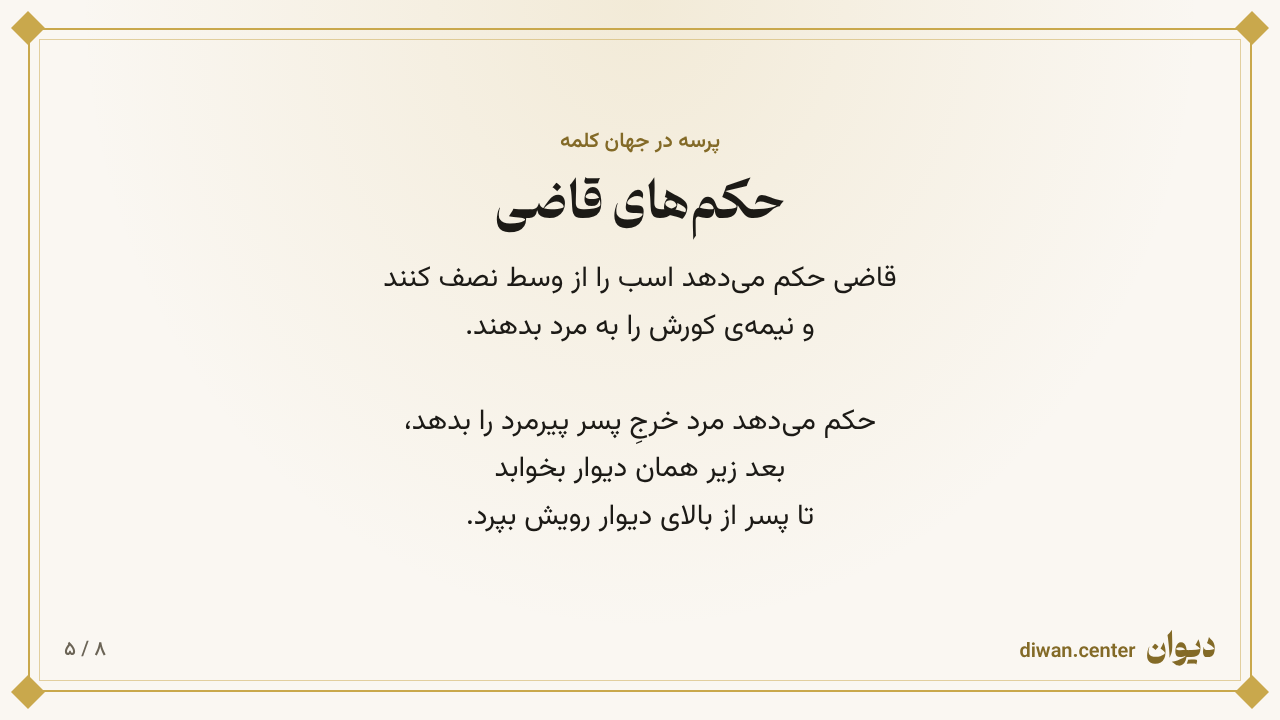
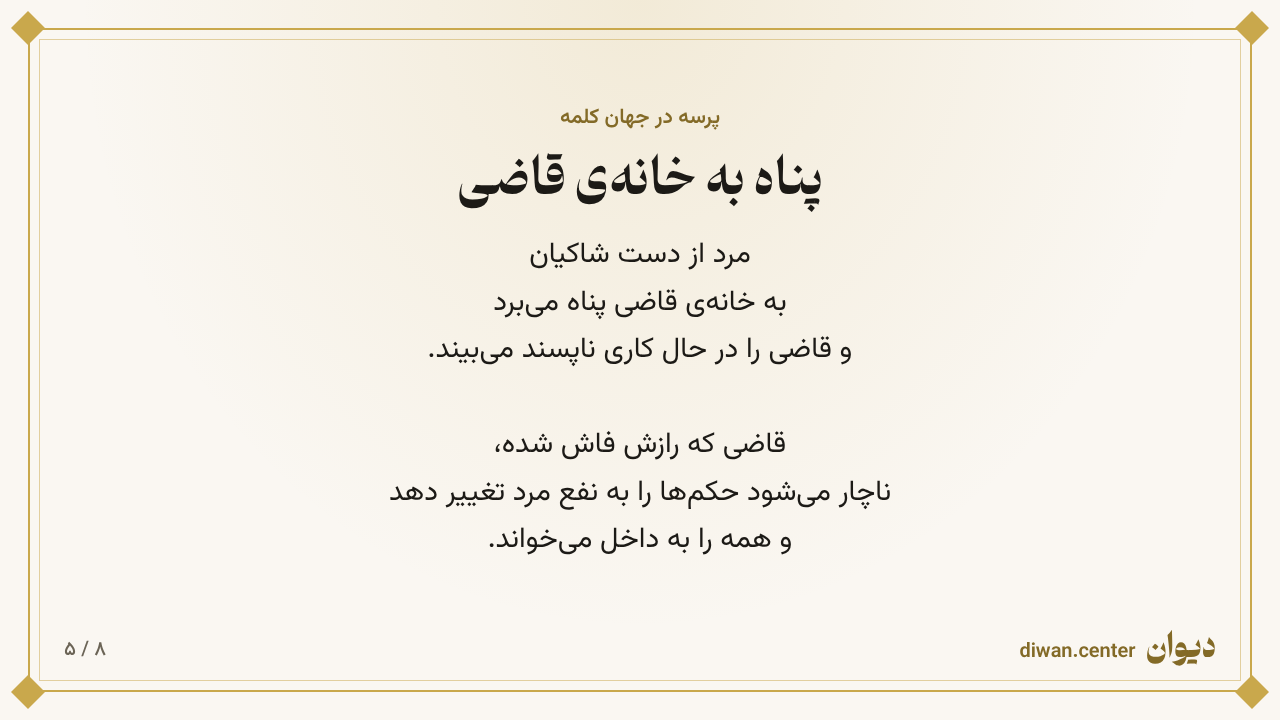
Proverb post14: judge-house version of the tale; schedule untouched
Claude-Session: https://claude.ai/code/session_01KbXFhZ5gVHvAJQxmARukFF

Changed region(s): [[0.3125, 0.1528, 0.7188, 0.5194], [0.3125, 0.5806, 0.6875, 0.7639]]

diff --git a/tools/proverb/build.py b/tools/proverb/build.py
@@ -11,9 +11,9 @@ S=[
  dict(k='text',kicker=K,title='خر ما از کرگی دم نداشت',body='این مثل را همه شنیدهایم\nو میدانیم یعنی چه.\nاما ماجرای پشت این ضربالمثل چیست؟'),
  dict(k='text',kicker=K,title='دیوان بلخ',body='ریشهی مثل در حکایتهای «دیوان بلخ» است.\n«دیوان» اینجا یعنی دادگاه.\n\n«دیوان بلخ» را به دادگاهی میگویند\nکه حکمش با عدالت و منطق نمیخواند.'),
  dict(k='text',kicker=K,title='قصه چه بود؟',body='مردی میخواهد به صاحب خری کمک کند\nکه خرش در گل گیر کرده.\nخر آزاد میشود، ولی دمش کنده میشود.\n\nو این فقط شروع ماجرا بود.'),
- dict(k='text',kicker=K,title='دعواها باز میشود',body='بدشانسیهای مرد ادامه پیدا میکند:\nزنی باردار را هل میدهد\nو بچهاش سقط میشود،\nچشم اسبی را کور میکند،\nروی پیرمردی میافتد و او میمیرد.\n\nهر کدام از او شکایت میکنند\nو پروندهها به دیوان بلخ میرسد.'),
- dict(k='text',kicker=K,title='حکمهای قاضی',body='قاضی حکم میدهد اسب را از وسط نصف کنند\nو نیمهی کورش را به مرد بدهند.\n\nحکم میدهد مرد خرجِ پسر پیرمرد را بدهد،\nبعد زیر همان دیوار بخوابد\nتا پسر از بالای دیوار رویش بپرد.'),
- dict(k='text',kicker=K,title='چرا چنین حکمهایی؟',body='بنا بر روایتها، قاضی فاسد و جاهطلب بود\nو دنبال جاه و مال بود، نه حق.\nاز چاپلوسی خوشش میآمد\nو مأموران دادگاه از هر مرحله پول میگرفتند.\n\nدهخدا مینویسد قاضیان بلخ\nبیگناه را گناهکار و گناهکار را بیگناه میکردند.'),
+ dict(k='text',kicker=K,title='دعواها باز میشود',body='بدشانسیهای مرد ادامه پیدا میکند:\nزنی باردار را هل میدهد\nو بچهاش سقط میشود،\nچشم اسبی را کور میکند،\nروی پیرمردی میافتد و او میمیرد.\n\nشاکیان به دنبالش میافتند.'),
+ dict(k='text',kicker=K,title='پناه به خانهی قاضی',body='مرد از دست شاکیان\nبه خانهی قاضی پناه میبرد\nو قاضی را در حال کاری ناپسند میبیند.\n\nقاضی که رازش فاش شده،\nناچار میشود حکمها را به نفع مرد تغییر دهد\nو همه را به داخل میخواند.'),
+ dict(k='text',kicker=K,title='حکمهای قاضی',body='حکمهایی که عقل را به خنده میآورد.\nاز جمله اسب را از وسط نصف کنند\nو نیمهی کورش را به مرد بدهند.\n\nیا مرد خرجِ پسر پیرمرد را بدهد،\nبعد زیر همان دیوار بخوابد\nتا پسر از بالای دیوار رویش بپرد.'),
  dict(k='text',kicker=K,title='پایان قصه',body='صاحب خر که حکمها را میبیند،\nمیترسد دعوا به زیان خودش تمام شود\nو از شکایتش میگذرد:\n\n«خر ما از کرگی دم نداشت!»'),
  dict(k='close',title='امروز یعنی چه؟',body='یعنی از ادعایم میگذرم،\nچون میترسم دعوا زیان بزرگتری بیاورد.',final='مثلی که از یک دادگاه ناعادلانه ساخته شد.',src='منبع: لغتنامهی دهخدا (کرگی، دیوان بلخ)، امثال و حکم، کتاب کوچهی شاملو'),
 ]
